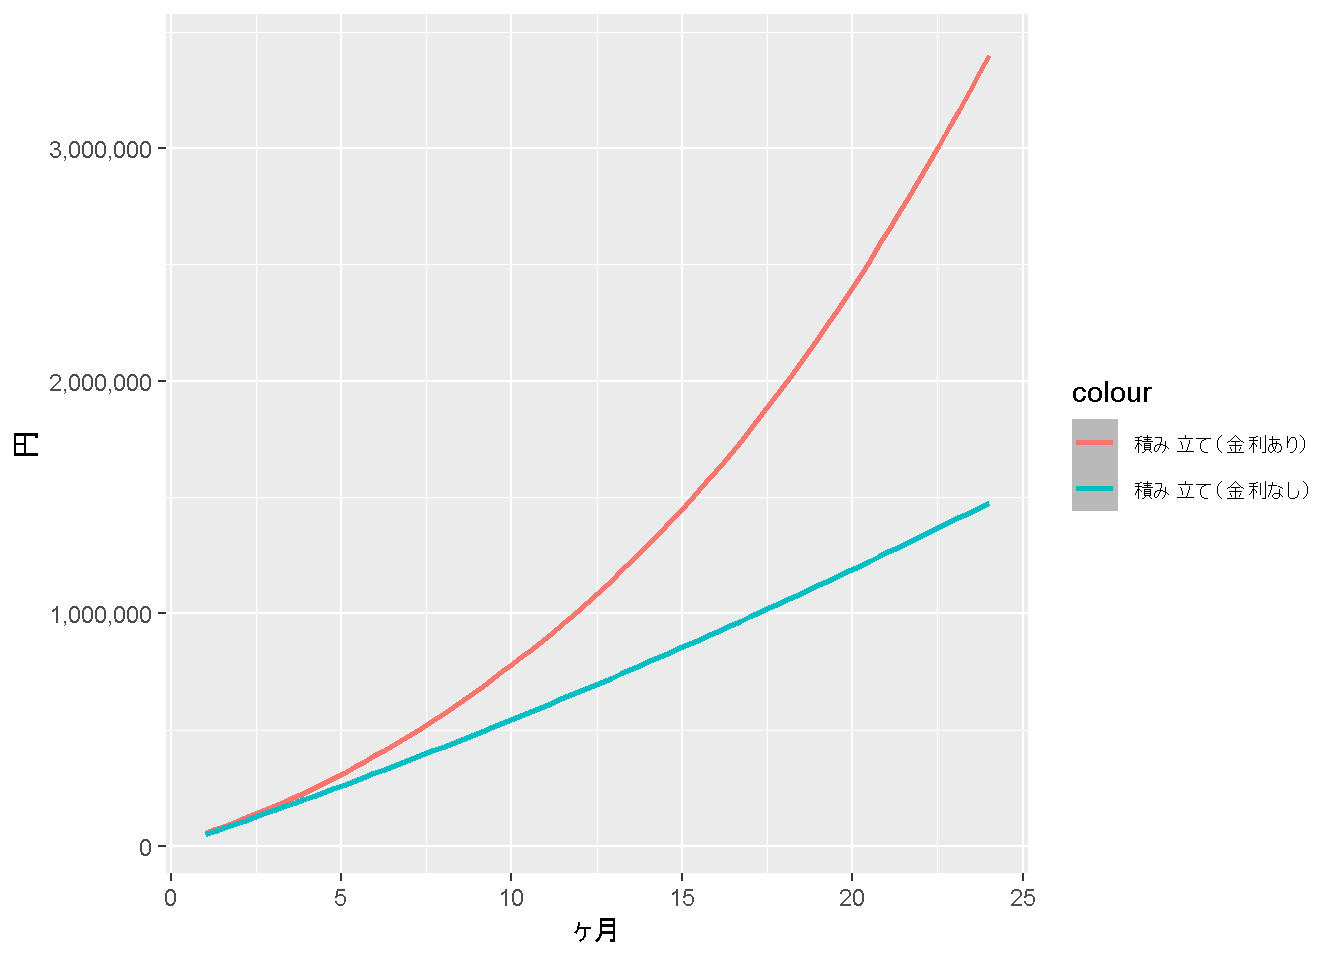
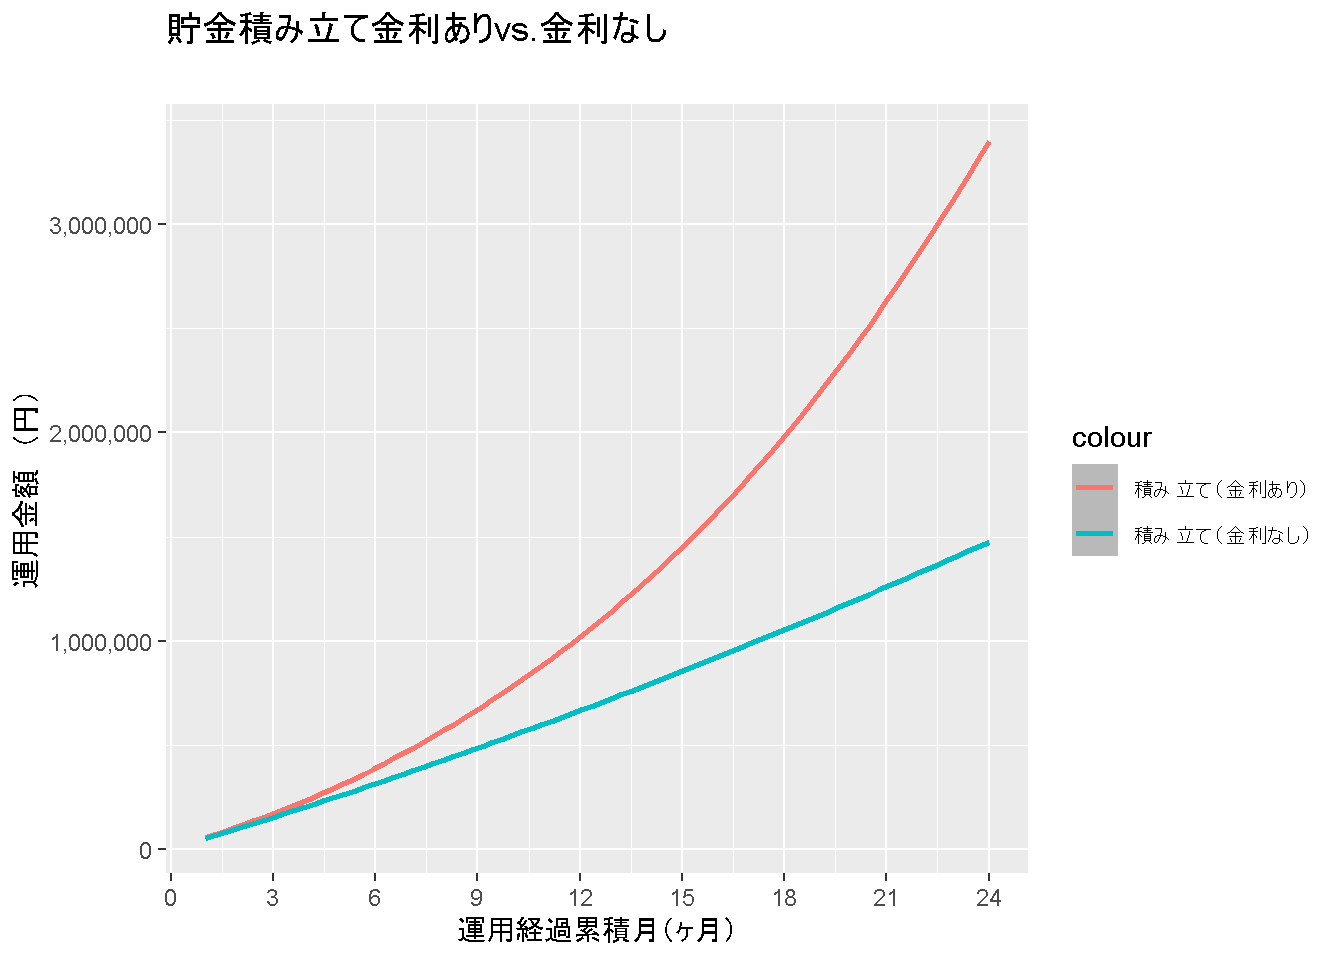
運用計画の細かい修正

diff --git a/content/post/2021-01-12-asset-management1/index.html b/content/post/2021-01-12-asset-management1/index.html
@@ -109,20 +109,12 @@ datatable(plan)</code></pre>
   scale_y_continuous(labels = comma) +
   scale_x_continuous(breaks = seq(0, 24, by = 3)) +
   xlab(&quot;運用経過累積月（ヶ月）&quot;) +
-  ylab(&quot;運用金額　（万円）&quot;)</code></pre>
-<pre><code>## `geom_smooth()` using method = &#39;loess&#39; and formula &#39;y ~ x&#39;
-## `geom_smooth()` using method = &#39;loess&#39; and formula &#39;y ~ x&#39;</code></pre>
-<p><img src="index_files/figure-html/unnamed-chunk-5-1.png" width="672" /></p>
-<pre class="r"><code>  labs(title = &quot;貯金積み立て金利ありvs.金利なし&quot;,
+  ylab(&quot;運用金額　（円）&quot;) +
+  labs(title = &quot;貯金積み立て金利ありvs.金利なし&quot;,
        subtitle = &quot;金利ありだと、約100万の差ができる&quot;)</code></pre>
-<pre><code>## $title
-## [1] &quot;貯金積み立て金利ありvs.金利なし&quot;
-## 
-## $subtitle
-## [1] &quot;金利ありだと、約100万の差ができる&quot;
-## 
-## attr(,&quot;class&quot;)
-## [1] &quot;labels&quot;</code></pre>
+<pre><code>FALSE `geom_smooth()` using method = &#39;loess&#39; and formula &#39;y ~ x&#39;
+FALSE `geom_smooth()` using method = &#39;loess&#39; and formula &#39;y ~ x&#39;</code></pre>
+<p><img src="index_files/figure-html/unnamed-chunk-5-1.png" width="672" /></p>
 </div>
 <div id="データフレームを自動で作れる関数を作る" class="section level2">
 <h2>データフレームを自動で作れる関数を作る</h2>
@@ -152,9 +144,9 @@ datatable(df)</code></pre>
 <div id="複数のプランを比べる" class="section level2">
 <h2>複数のプランを比べる</h2>
 <pre class="r"><code>### 複数のプランをつくる。
-A &lt;- saving_plan(24, 5, 0.05)
-B &lt;- saving_plan(24, 5, 0.075)
-C &lt;- saving_plan(24, 5, 0.1)
+A &lt;- saving_plan(24, 50000, 0.05)
+B &lt;- saving_plan(24, 50000, 0.075)
+C &lt;- saving_plan(24, 50000, 0.1)
 
 ### 複数のプランを作る際に必要な項目に絞る
 plans &lt;- data.frame(A[1],A[6],B[6], C[6]) %&gt;% as_tibble()
@@ -169,18 +161,24 @@ plans2 &lt;- plans %&gt;%
 
 datatable(plans2)</code></pre>
 <div id="htmlwidget-3" style="width:100%;height:auto;" class="datatables html-widget"></div>
-<script type="application/json" data-for="htmlwidget-3">{"x":{"filter":"none","data":[["1","2","3","4","5","6","7","8","9","10","11","12","13","14","15","16","17","18","19","20","21","22","23","24"],[1,2,3,4,5,6,7,8,9,10,11,12,13,14,15,16,17,18,19,20,21,22,23,24],[5.25,10.76,16.55,22.63,29.01,35.71,42.75,50.13,57.89,66.03,74.59,83.56,92.99,102.89,113.29,124.2,135.66,147.7,160.33,173.6,187.53,202.15,217.51,233.64],[5.37,11.15,17.36,24.04,31.22,38.94,47.23,56.15,65.74,76.04,87.12,99.03,111.83,125.59,140.39,156.29,173.39,191.77,211.52,232.76,255.59,280.14,306.52,334.89],[5.5,11.55,18.21,25.53,33.58,42.44,52.18,62.9,74.69,87.66,101.92,117.61,134.87,153.86,174.75,197.72,223,250.8,281.37,315.01,352.01,392.72,437.49,486.74]],"container":"<table class=\"display\">\n  <thead>\n    <tr>\n      <th> <\/th>\n      <th>Month<\/th>\n      <th>caseA<\/th>\n      <th>caseB<\/th>\n      <th>caseC<\/th>\n    <\/tr>\n  <\/thead>\n<\/table>","options":{"columnDefs":[{"className":"dt-right","targets":[1,2,3,4]},{"orderable":false,"targets":0}],"order":[],"autoWidth":false,"orderClasses":false}},"evals":[],"jsHooks":[]}</script>
+<script type="application/json" data-for="htmlwidget-3">{"x":{"filter":"none","data":[["1","2","3","4","5","6","7","8","9","10","11","12","13","14","15","16","17","18","19","20","21","22","23","24"],[1,2,3,4,5,6,7,8,9,10,11,12,13,14,15,16,17,18,19,20,21,22,23,24],[52500,107625,165506.25,226281.56,290095.64,357100.42,427455.44,501328.22,578894.63,660339.36,745856.33,835649.14,929931.6,1028928.18,1132874.59,1242018.32,1356619.23,1476950.2,1603297.71,1735962.59,1875260.72,2021523.76,2175099.94,2336354.94],[53750,111531.25,173646.09,240419.55,312201.02,389366.09,472318.55,561492.44,657354.37,760405.95,871186.4,990275.38,1118296.03,1255918.24,1403862.1,1562901.76,1733869.39,1917659.6,2115234.07,2327626.62,2555948.62,2801394.76,3065249.37,3348893.08],[55000,115500,182050,255255,335780.5,424358.55,521794.41,628973.85,746871.23,876558.35,1019214.19,1176135.61,1348749.17,1538624.08,1747486.49,1977235.14,2229958.66,2507954.52,2813749.97,3150124.97,3520137.47,3927151.22,4374866.34,4867352.97]],"container":"<table class=\"display\">\n  <thead>\n    <tr>\n      <th> <\/th>\n      <th>Month<\/th>\n      <th>caseA<\/th>\n      <th>caseB<\/th>\n      <th>caseC<\/th>\n    <\/tr>\n  <\/thead>\n<\/table>","options":{"columnDefs":[{"className":"dt-right","targets":[1,2,3,4]},{"orderable":false,"targets":0}],"order":[],"autoWidth":false,"orderClasses":false}},"evals":[],"jsHooks":[]}</script>
 </div>
 <div id="グラフ化する" class="section level2">
 <h2>グラフ化する</h2>
 <pre class="r"><code>ggplot(plans2, aes(x = Month)) +
   geom_smooth(aes(y = caseA, color = &quot;caseC&quot;)) +
   geom_smooth(aes(y = caseB, color = &quot;caseB&quot;)) +
-  geom_smooth(aes(y = caseC, color = &quot;caseA&quot;)) </code></pre>
-<pre><code>## `geom_smooth()` using method = &#39;loess&#39; and formula &#39;y ~ x&#39;
-## `geom_smooth()` using method = &#39;loess&#39; and formula &#39;y ~ x&#39;
-## `geom_smooth()` using method = &#39;loess&#39; and formula &#39;y ~ x&#39;</code></pre>
-<p><img src="index_files/figure-html/unnamed-chunk-9-1.png" width="672" /></p>
+  geom_smooth(aes(y = caseC, color = &quot;caseA&quot;)) + 
+  scale_y_continuous(labels = comma) +
+  scale_x_continuous(breaks = seq(0, 24, by = 3)) +
+  xlab(&quot;運用経過累積月（ヶ月）&quot;) +
+  ylab(&quot;運用金額　（円）&quot;) +
+  labs(title = &quot;貯金積み立てプラン比較&quot;,
+       subtitle = &quot;&quot;)</code></pre>
+<pre><code>FALSE `geom_smooth()` using method = &#39;loess&#39; and formula &#39;y ~ x&#39;
+FALSE `geom_smooth()` using method = &#39;loess&#39; and formula &#39;y ~ x&#39;
+FALSE `geom_smooth()` using method = &#39;loess&#39; and formula &#39;y ~ x&#39;</code></pre>
+<p><img src="index_files/figure-html/unnamed-chunk-8-1.png" width="672" /></p>
 </div>
 </div>
 <div id="モデルを複雑化する" class="section level1">
@@ -191,7 +189,7 @@ datatable(plans2)</code></pre>
 <ul>
 <li><code>interest rate</code>は、期末に支払われる。</li>
 <li>途中で貯蓄を引き出すことはできない。</li>
-<li>金利と毎月の貯金額は一定→</li>
+<li>金利と毎月の貯金額は一定→×</li>
 <li>→月々の貯金を時間と共に増加させる</li>
 <li>→金利は金利を固定ではなく、金利を<code>R</code>%を平均値とする正規分布に近似する複利に変える。(リスク資産で運用する場合を想定する。)</li>
 <li>初月の貯金額は、<code>Save</code>万円で、変数<code>Increase_by</code>の等比数列とする。</li>
@@ -220,7 +218,7 @@ datatable(plans2)</code></pre>
 <pre class="r"><code>plan3 &lt;- saving_plan2(24, 50000, 1000, 0.05, 1) %&gt;% round(digits = 2)
 datatable(plan3)</code></pre>
 <div id="htmlwidget-4" style="width:100%;height:auto;" class="datatables html-widget"></div>
-<script type="application/json" data-for="htmlwidget-4">{"x":{"filter":"none","data":[["1","2","3","4","5","6","7","8","9","10","11","12","13","14","15","16","17","18","19","20","21","22","23","24"],[1,2,3,4,5,6,7,8,9,10,11,12,13,14,15,16,17,18,19,20,21,22,23,24],[50000,51000,52000,53000,54000,55000,56000,57000,58000,59000,60000,61000,62000,63000,64000,65000,66000,67000,68000,69000,70000,71000,72000,73000],[-1.18,-0.14,-0.4,-0.87,0.1,-0.35,-1.13,0.2,-1.77,0.83,-1.18,-0.58,0.16,-0.66,-0.63,1.38,0.95,0.19,-0.55,0.9,0.27,1.37,0.37,0.99],[-8965.19,43825.27,31214.48,6973.78,59210.87,35944.88,-7231.69,68553.22,-44656.61,107980.37,-10759.21,25559.87,72072.23,21304.22,23618.1,154580.79,128931.79,79951.5,30768.36,131076.25,89109.48,168308.91,98305.13,145384.6],[50000,101000,153000,206000,260000,315000,371000,428000,486000,545000,605000,666000,728000,791000,855000,920000,986000,1053000,1121000,1190000,1260000,1331000,1403000,1476000],[52500,109777.5,172126.5,239858.46,313303.29,392810.46,478750.1,571514.17,671517.77,779200.44,895027.59,1019491.95,1153115.18,1296449.51,1450079.47,1614623.81,1790737.39,1979113.26,2180484.88,2395628.37,2625365.01,2870563.73,3132143.92,3411078.21],[1.05,1.09,1.13,1.16,1.21,1.25,1.29,1.34,1.38,1.43,1.48,1.53,1.58,1.64,1.7,1.76,1.82,1.88,1.95,2.01,2.08,2.16,2.23,2.31],[24,23,22,21,20,19,18,17,16,15,14,13,12,11,10,9,8,7,6,5,4,3,2,1],[0.9,0.98,0.9,0.74,1.04,0.84,0.5,1.14,0.24,1.95,0.32,0.55,1.19,0.45,0.44,5.69,3.67,1.33,0.41,4.25,1.6,10.8,1.99,6.72],[55247.07,110264.89,165054.43,219616.62,273952.42,328062.75,381948.56,435610.78,489050.33,542268.15,595265.14,648042.22,700600.32,752940.33,805063.16,856969.72,908660.9,960137.58,1011400.68,1062451.06,1113289.62,1163917.23,1214334.76,1264543.09]],"container":"<table class=\"display\">\n  <thead>\n    <tr>\n      <th> <\/th>\n      <th>m<\/th>\n      <th>ms<\/th>\n      <th>r<\/th>\n      <th>ms_r<\/th>\n      <th>cum_ms<\/th>\n      <th>cum_ms_r_moment<\/th>\n      <th>percent<\/th>\n      <th>n<\/th>\n      <th>r2<\/th>\n      <th>cum_ms_r_future<\/th>\n    <\/tr>\n  <\/thead>\n<\/table>","options":{"columnDefs":[{"className":"dt-right","targets":[1,2,3,4,5,6,7,8,9,10]},{"orderable":false,"targets":0}],"order":[],"autoWidth":false,"orderClasses":false}},"evals":[],"jsHooks":[]}</script>
+<script type="application/json" data-for="htmlwidget-4">{"x":{"filter":"none","data":[["1","2","3","4","5","6","7","8","9","10","11","12","13","14","15","16","17","18","19","20","21","22","23","24"],[1,2,3,4,5,6,7,8,9,10,11,12,13,14,15,16,17,18,19,20,21,22,23,24],[50000,51000,52000,53000,54000,55000,56000,57000,58000,59000,60000,61000,62000,63000,64000,65000,66000,67000,68000,69000,70000,71000,72000,73000],[-0.21,-0.22,0.18,-0.52,-0.5,0.6,0.13,-0.59,0.52,0.11,1.27,0.02,0.62,-1.6,0.65,-1.05,-0.02,0.01,-0.41,-1.64,0.17,-1.09,-1.48,-1.62],[39452.49,39919.77,61160.18,25542.58,27105.84,87991.03,63256.86,23397.07,88194.64,65199.32,136199.68,62337.77,100384.62,-37709.49,105901.32,-3287.84,64368.43,67355.09,39796.64,-43839.68,81711.1,-6659.65,-34420.22,-45107.06],[50000,101000,153000,206000,260000,315000,371000,428000,486000,545000,605000,666000,728000,791000,855000,920000,986000,1053000,1121000,1190000,1260000,1331000,1403000,1476000],[52500,109777.5,172126.5,239858.46,313303.29,392810.46,478750.1,571514.17,671517.77,779200.44,895027.59,1019491.95,1153115.18,1296449.51,1450079.47,1614623.81,1790737.39,1979113.26,2180484.88,2395628.37,2625365.01,2870563.73,3132143.92,3411078.21],[1.05,1.09,1.13,1.16,1.21,1.25,1.29,1.34,1.38,1.43,1.48,1.53,1.58,1.64,1.7,1.76,1.82,1.88,1.95,2.01,2.08,2.16,2.23,2.31],[24,23,22,21,20,19,18,17,16,15,14,13,12,11,10,9,8,7,6,5,4,3,2,1],[0.98,0.96,1.04,0.84,0.81,1.34,1.08,0.67,1.47,1.09,3.02,1.02,1.92,0.14,2.22,0.23,0.97,1.01,0.51,0.05,1.34,0.12,0.05,0.03],[55247.07,110264.89,165054.43,219616.62,273952.42,328062.75,381948.56,435610.78,489050.33,542268.15,595265.14,648042.22,700600.32,752940.33,805063.16,856969.72,908660.9,960137.58,1011400.68,1062451.06,1113289.62,1163917.23,1214334.76,1264543.09]],"container":"<table class=\"display\">\n  <thead>\n    <tr>\n      <th> <\/th>\n      <th>m<\/th>\n      <th>ms<\/th>\n      <th>r<\/th>\n      <th>ms_r<\/th>\n      <th>cum_ms<\/th>\n      <th>cum_ms_r_moment<\/th>\n      <th>percent<\/th>\n      <th>n<\/th>\n      <th>r2<\/th>\n      <th>cum_ms_r_future<\/th>\n    <\/tr>\n  <\/thead>\n<\/table>","options":{"columnDefs":[{"className":"dt-right","targets":[1,2,3,4,5,6,7,8,9,10]},{"orderable":false,"targets":0}],"order":[],"autoWidth":false,"orderClasses":false}},"evals":[],"jsHooks":[]}</script>
 </div>
 <div id="グラフ化する-1" class="section level3">
 <h3>グラフ化する</h3>
@@ -228,11 +226,14 @@ datatable(plan3)</code></pre>
   geom_smooth(aes(y = cum_ms_r_moment, colour = &quot;積み立て（金利あり）&quot;)) +
   geom_smooth(aes(y = cum_ms, colour = &quot;積み立て（金利なし）&quot;)) +
   scale_y_continuous(labels = comma) +
-  xlab(&quot;ヶ月&quot;) +
-  ylab(&quot;円&quot;)</code></pre>
+  scale_x_continuous(breaks = seq(0, 24, by = 3)) +
+  xlab(&quot;運用経過累積月（ヶ月）&quot;) +
+  ylab(&quot;運用金額　（円）&quot;) +
+  labs(title = &quot;貯金積み立て金利ありvs.金利なし&quot;,
+       subtitle = &quot;&quot;)</code></pre>
 <pre><code>## `geom_smooth()` using method = &#39;loess&#39; and formula &#39;y ~ x&#39;
 ## `geom_smooth()` using method = &#39;loess&#39; and formula &#39;y ~ x&#39;</code></pre>
-<p><img src="index_files/figure-html/unnamed-chunk-12-1.png" width="672" /></p>
+<p><img src="index_files/figure-html/unnamed-chunk-11-1.png" width="672" /></p>
 </div>
 </div>
 <div id="最後に" class="section level2">
